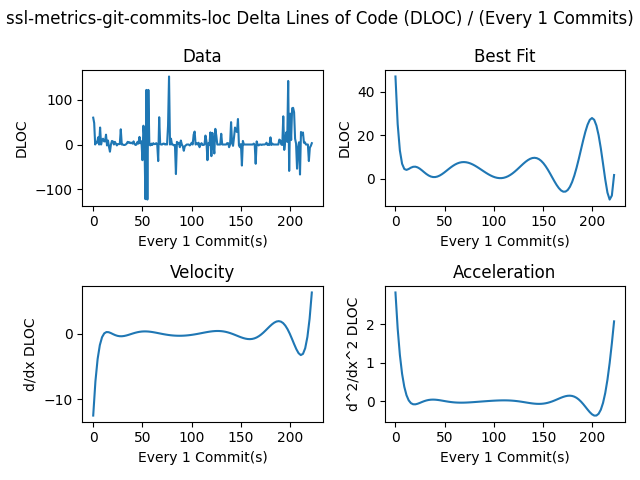
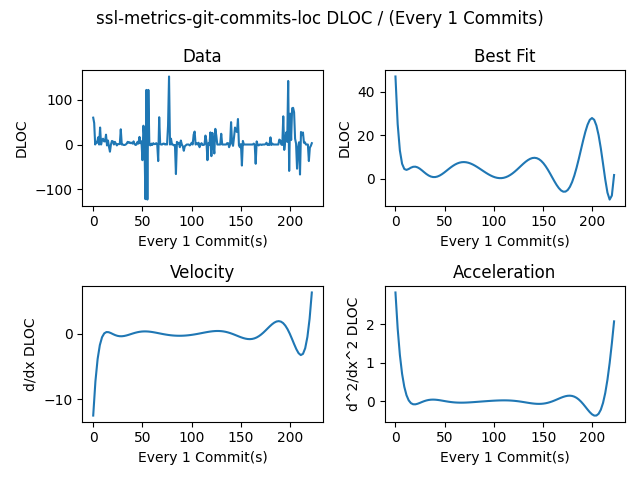
Update README.md and fix titles

Changed region(s): [[0.0, 0.0, 1.0, 0.0625]]

diff --git a/ssl_metrics_git_commits_loc/create_graph.py b/ssl_metrics_git_commits_loc/create_graph.py
@@ -304,7 +304,7 @@ def main() -> None:
 
     if args.loc:
         if args.graph_data:
-            title: str = t("", args.repository_name, "Lines of Code (LOC)")
+            title: str = t("", args.repository_name, "LOC")
             filename: str = appendID(filename=args.output, id="loc_data")
             _graphDataChart(
                 title=title,
@@ -314,7 +314,7 @@ def main() -> None:
             )
 
         if args.graph_best_fit:
-            title: str = t("Best Fit of ", args.repository_name, "Lines of Code (LOC)")
+            title: str = t("Best Fit of ", args.repository_name, "LOC")
             filename: str = appendID(filename=args.output, id="loc_best_fit")
             _graphBestFitChart(
                 title=title,
@@ -324,7 +324,7 @@ def main() -> None:
             )
 
         if args.graph_velocity:
-            title: str = t("Velocity of ", args.repository_name, "Lines of Code (LOC)")
+            title: str = t("Velocity of ", args.repository_name, "LOC")
             filename: str = appendID(filename=args.output, id="loc_velocity")
             _graphVelocityChart(
                 title=title,
@@ -335,7 +335,7 @@ def main() -> None:
 
         if args.graph_acceleration:
             title: str = t(
-                "Acceleration of ", args.repository_name, "Lines of Code (LOC)"
+                "Acceleration of ", args.repository_name, "LOC"
             )
             filename: str = appendID(filename=args.output, id="loc_acceleration")
             _graphAccelerationChart(
@@ -347,7 +347,7 @@ def main() -> None:
 
         if args.graph_all:
             filename: str = appendID(filename=args.output, id="loc_all")
-            title = t("", args.repository_name, "Lines of Code (LOC)")
+            title = t("", args.repository_name, "LOC")
             yLabelList: list = [
                 yLabel0.format("LOC"),
                 yLabel0.format("LOC"),
@@ -363,7 +363,7 @@ def main() -> None:
 
     if args.dloc:
         if args.graph_data:
-            title: str = t("", args.repository_name, "Delta Lines of Code (DLOC)")
+            title: str = t("", args.repository_name, "DLOC")
             filename: str = appendID(filename=args.output, id="dloc_data")
             _graphDataChart(
                 title=title,
@@ -374,7 +374,7 @@ def main() -> None:
 
         if args.graph_best_fit:
             title: str = t(
-                "Best Fit of ", args.repository_name, "Delta Lines of Code (DLOC)"
+                "Best Fit of ", args.repository_name, "DLOC"
             )
             filename: str = appendID(filename=args.output, id="dloc_best_fit")
             _graphBestFitChart(
@@ -386,7 +386,7 @@ def main() -> None:
 
         if args.graph_velocity:
             title: str = t(
-                "Velocity of ", args.repository_name, "Delta Lines of Code (DLOC)"
+                "Velocity of ", args.repository_name, "DLOC"
             )
             filename: str = appendID(filename=args.output, id="dloc_velocity")
             _graphVelocityChart(
@@ -398,7 +398,7 @@ def main() -> None:
 
         if args.graph_acceleration:
             title: str = t(
-                "Acceleration of ", args.repository_name, "Delta Lines of Code (DLOC)"
+                "Acceleration of ", args.repository_name, "DLOC"
             )
             filename: str = appendID(filename=args.output, id="dloc_acceleration")
             _graphAccelerationChart(
@@ -409,7 +409,7 @@ def main() -> None:
             )
 
         if args.graph_all:
-            title: str = t("", args.repository_name, "Delta Lines of Code (DLOC)")
+            title: str = t("", args.repository_name, "DLOC")
             filename: str = appendID(filename=args.output, id="dloc_all")
             yLabelList: list = [
                 yLabel0.format("DLOC"),
@@ -427,7 +427,7 @@ def main() -> None:
     if args.kloc:
         if args.graph_data:
             title: str = t(
-                "", args.repository_name, "Thousands of Lines of Code (KLOC)"
+                "", args.repository_name, "KLOC"
             )
             filename: str = appendID(filename=args.output, id="kloc_data")
             _graphDataChart(
@@ -440,7 +440,7 @@ def main() -> None:
             title: str = t(
                 "Best Fit of ",
                 args.repository_name,
-                "Thousands of Lines of Code (KLOC)",
+                "KLOC",
             )
             filename: str = appendID(filename=args.output, id="kloc_best_fit")
             _graphBestFitChart(
@@ -454,7 +454,7 @@ def main() -> None:
             title: str = t(
                 "Velocity of ",
                 args.repository_name,
-                "Thousands of Lines of Code (KLOC)",
+                "KLOC",
             )
             filename: str = appendID(filename=args.output, id="kloc_velocity")
             _graphVelocityChart(
@@ -466,13 +466,13 @@ def main() -> None:
 
         if args.graph_acceleration:
             title: str = t(
-                "", args.repository_name, "Thousands of Lines of Code (KLOC)"
+                "", args.repository_name, "KLOC"
             )
             filename: str = appendID(filename=args.output, id="kloc_acceleration")
             title = title.format(
                 "Acceleration of ",
                 args.repository_name,
-                "Thousands of Lines of Code (KLOC)",
+                "KLOC",
                 args.stepper,
             )
             _graphAccelerationChart(
@@ -484,7 +484,7 @@ def main() -> None:
 
         if args.graph_all:
             title: str = t(
-                "", args.repository_name, "Thousands of Lines of Code (KLOC)"
+                "", args.repository_name, "KLOC"
             )
             filename: str = appendID(filename=args.output, id="kloc_all")
             yLabelList: list = [

diff --git a/README.md b/README.md
@@ -51,3 +51,27 @@ The graphs can be saved as a `.png`, `.pdf`, or any compatible format that `matp
 - `-r`, `--repository-name`: Name of the repository that is being analyzed
 - `--x-window-min`: The smallest x value that will be plotted
 - `--x-window-max`: The largest x value that will be plotted
+
+## Example Outputs
+
+All outputs were generated using the data from [`examples/json/ssl-metrics-git-commits-loc.json`](examples/json/ssl-metrics-git-commits-loc.json) and with the following command:
+
+`python ssl-metrics-git-commits-loc/create_graph.py -i ../examples/json/ssl-metrics-git-commits-loc.json -o out.png -r SoftwareSystemsLaboratory/ssl-metrics-git-commits-loc --*DATA* --graph-all`
+
+Where `--*DATA*` is either:
+
+- `loc`
+- `dloc`
+- `kloc`
+
+### Lines of Code (LOC) on 1/4/2022
+
+[![LOC](examples/images/out_loc_all.png)](examples/images/out_loc_all.png)
+
+### Delta Lines of Code (DLOC) on 1/4/2022
+
+[![LOC](examples/images/out_dloc_all.png)](examples/images/out_dloc_all.png)
+
+### Thousands of Lines of Code (KLOC) on 1/4/2022
+
+[![LOC](examples/images/out_kloc_all.png)](examples/images/out_kloc_all.png)
